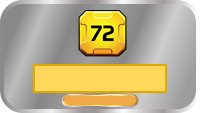
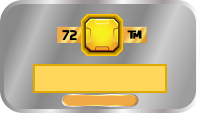
Add custom MAs for Arabia Terra board

Changed region(s): [[0.27, 0.0796, 0.75, 0.5044]]

diff --git a/src/MilestoneAwardSelector.ts b/src/MilestoneAwardSelector.ts
@@ -1,4 +1,9 @@
-import {ARES_AWARDS, Awards, ELYSIUM_AWARDS, HELLAS_AWARDS, MOON_AWARDS, ORIGINAL_AWARDS, VASTITAS_BOREALIS_AWARDS, VENUS_AWARDS} from './awards/Awards';
+import {Generator} from './awards/arabiaTerra/Generator';
+import {Highlander} from './awards/arabiaTerra/Highlander';
+import {Producer} from './awards/arabiaTerra/Producer';
+import {Purist} from './awards/arabiaTerra/Purist';
+import {Worker} from './awards/arabiaTerra/Worker';
+import {ARABIA_TERRA_AWARDS, ARES_AWARDS, Awards, ELYSIUM_AWARDS, HELLAS_AWARDS, MOON_AWARDS, ORIGINAL_AWARDS, VASTITAS_BOREALIS_AWARDS, VENUS_AWARDS} from './awards/Awards';
 import {Banker} from './awards/Banker';
 import {Benefactor} from './awards/Benefactor';
 import {Celebrity} from './awards/Celebrity';
@@ -23,6 +28,11 @@ import {Venuphile} from './awards/Venuphile';
 import {BoardName} from './boards/BoardName';
 import {GameOptions} from './Game';
 import {IDrawnMilestonesAndAwards} from './IDrawnMilestonesAndAwards';
+import {Frontrunner} from './milestones/arabiaTerra/Frontrunner';
+import {Herbalist} from './milestones/arabiaTerra/Herbalist';
+import {Morningstar} from './milestones/arabiaTerra/Morningstar';
+import {Protagonist} from './milestones/arabiaTerra/Protagonist';
+import {Researcher} from './milestones/arabiaTerra/Researcher';
 import {Builder} from './milestones/Builder';
 import {Diversifier} from './milestones/Diversifier';
 import {Ecologist} from './milestones/Ecologist';
@@ -32,7 +42,7 @@ import {Generalist} from './milestones/Generalist';
 import {Hoverlord} from './milestones/Hoverlord';
 import {IMilestone} from './milestones/IMilestone';
 import {Mayor} from './milestones/Mayor';
-import {ARES_MILESTONES, ELYSIUM_MILESTONES, HELLAS_MILESTONES, Milestones, MOON_MILESTONES, ORIGINAL_MILESTONES, VASTITAS_BOREALIS_MILESTONES, VENUS_MILESTONES} from './milestones/Milestones';
+import {ARABIA_TERRA_MILESTONES, ARES_MILESTONES, ELYSIUM_MILESTONES, HELLAS_MILESTONES, Milestones, MOON_MILESTONES, ORIGINAL_MILESTONES, VASTITAS_BOREALIS_MILESTONES, VENUS_MILESTONES} from './milestones/Milestones';
 import {Networker} from './milestones/Networker';
 import {Planner} from './milestones/Planner';
 import {PolarExplorer} from './milestones/PolarExplorer';
@@ -228,6 +238,46 @@ export namespace MilestoneAwardSelector {
       bind(Naturalist, Cultivator, 3);
       bind(Naturalist, Edgedancer, 1);
 
+      bind(Morningstar, Tycoon, 1);
+      bind(Morningstar, Hoverlord, 4);
+      bind(Morningstar, Venuphile, 9);
+      bind(Morningstar, Researcher, 1);
+
+      bind(Highlander, Mayor, 3);
+      bind(Highlander, Gardener, 3);
+      bind(Highlander, Landlord, 8);
+      bind(Highlander, DesertSettler, 6);
+      bind(Highlander, Cultivator, 8);
+
+      bind(Herbalist, Gardener, 8);
+      bind(Herbalist, PolarExplorer, 4);
+      bind(Herbalist, Irrigator, 3);
+
+      bind(Frontrunner, Ecologist, 1);
+      bind(Frontrunner, Tycoon, 1);
+      bind(Frontrunner, Diversifier, 1);
+      bind(Frontrunner, Tactician, 1);
+
+      bind(Generator, Specialist, 1);
+      bind(Generator, Energizer, 6);
+      bind(Generator, Thermalist, 6);
+      bind(Generator, Industrialist, 7);
+      bind(Generator, Contractor, 4);
+
+      bind(Protagonist, Terraformer, 8);
+      bind(Protagonist, Gardener, 2);
+
+      bind(Researcher, Scientist, 9);
+
+      bind(Producer, Generalist, 3);
+      bind(Producer, Smith, 2);
+
+      bind(Purist, Benefactor, 2);
+
+      bind(Worker, Tycoon, 6);
+      bind(Worker, Excentric, 5);
+      bind(Worker, Hoverlord, 2);
+
       return synergies;
     }
   }
@@ -294,7 +344,6 @@ export namespace MilestoneAwardSelector {
       switch (gameOptions.boardName) {
       case BoardName.ORIGINAL:
       case BoardName.AMAZONIS:
-      case BoardName.ARABIA_TERRA:
       case BoardName.TERRA_CIMMERIA:
         drawnMilestonesAndAwards.milestones.push(...ORIGINAL_MILESTONES);
         drawnMilestonesAndAwards.awards.push(...ORIGINAL_AWARDS);
@@ -302,6 +351,10 @@ export namespace MilestoneAwardSelector {
       case BoardName.VASTITAS_BOREALIS:
         drawnMilestonesAndAwards.milestones.push(...VASTITAS_BOREALIS_MILESTONES);
         drawnMilestonesAndAwards.awards.push(...VASTITAS_BOREALIS_AWARDS);
+        break;
+      case BoardName.ARABIA_TERRA:
+        drawnMilestonesAndAwards.milestones.push(...ARABIA_TERRA_MILESTONES);
+        drawnMilestonesAndAwards.awards.push(...ARABIA_TERRA_AWARDS);
         break;
       case BoardName.HELLAS:
         drawnMilestonesAndAwards.milestones.push(...HELLAS_MILESTONES);
@@ -363,8 +416,8 @@ export namespace MilestoneAwardSelector {
     const toName = (e: {name: string}) => e.name;
 
     // TODO: Add a game option to decide whether to include unofficial MAs or not
-    const candidateMilestones = [...ORIGINAL_MILESTONES, ...ELYSIUM_MILESTONES, ...HELLAS_MILESTONES, ...VASTITAS_BOREALIS_MILESTONES].map(toName);
-    const candidateAwards = [...ORIGINAL_AWARDS, ...ELYSIUM_AWARDS, ...HELLAS_AWARDS, ...VASTITAS_BOREALIS_AWARDS].map(toName);
+    const candidateMilestones = [...ORIGINAL_MILESTONES, ...ELYSIUM_MILESTONES, ...HELLAS_MILESTONES, ...VASTITAS_BOREALIS_MILESTONES, ...ARABIA_TERRA_MILESTONES].map(toName);
+    const candidateAwards = [...ORIGINAL_AWARDS, ...ELYSIUM_AWARDS, ...HELLAS_AWARDS, ...VASTITAS_BOREALIS_AWARDS, ...ARABIA_TERRA_AWARDS].map(toName);
 
     if (gameOptions.venusNextExtension) {
       candidateMilestones.push(...VENUS_MILESTONES.map(toName));

diff --git a/src/milestones/Milestones.ts b/src/milestones/Milestones.ts
@@ -23,6 +23,11 @@ import {Smith} from './vastitasBorealis/Smith';
 import {Irrigator} from './vastitasBorealis/Irrigator';
 import {Capitalist} from './vastitasBorealis/Capitalist';
 import {Tradesman} from './vastitasBorealis/Tradesman';
+import {Frontrunner} from './arabiaTerra/Frontrunner';
+import {Herbalist} from './arabiaTerra/Herbalist';
+import {Morningstar} from './arabiaTerra/Morningstar';
+import {Protagonist} from './arabiaTerra/Protagonist';
+import {Researcher} from './arabiaTerra/Researcher';
 
 export const ORIGINAL_MILESTONES: Array<IMilestone> = [
   new Terraformer(),
@@ -53,12 +58,20 @@ export const HELLAS_MILESTONES: Array<IMilestone> = [
 ];
 
 export const VASTITAS_BOREALIS_MILESTONES: Array<IMilestone> = [
-    new Electrician(),
-    new Smith(),
-    new Tradesman(),
-    new Irrigator(),
-    new Capitalist(),
-  ];
+  new Electrician(),
+  new Smith(),
+  new Tradesman(),
+  new Irrigator(),
+  new Capitalist(),
+];
+
+export const ARABIA_TERRA_MILESTONES: Array<IMilestone> = [
+  new Frontrunner(),
+  new Herbalist(),
+  new Morningstar(),
+  new Protagonist(),
+  new Researcher(),
+];
 
 export const ARES_MILESTONES: Array<IMilestone> = [
   new Networker(),
@@ -74,9 +87,11 @@ export const ALL_MILESTONES: Array<IMilestone> = [
   ...ELYSIUM_MILESTONES,
   ...HELLAS_MILESTONES,
   ...VASTITAS_BOREALIS_MILESTONES,
+  ...ARABIA_TERRA_MILESTONES,
   ...VENUS_MILESTONES,
   ...ARES_MILESTONES,
-  ...MOON_MILESTONES];
+  ...MOON_MILESTONES,
+];
 
 export namespace Milestones {
   export const ALL = ALL_MILESTONES;

diff --git a/src/styles/player_home.less b/src/styles/player_home.less
@@ -694,6 +694,51 @@
             background-image: url(assets/ma/voyager.png);
         }
 
+        .ma-name--frontrunner {
+            background-image: url(assets/ma/frontrunner.png);
+            padding-top: 61px;
+        }
+
+        .ma-name--herbalist {
+            background-image: url(assets/ma/herbalist.png);
+            padding-top: 61px;
+        }
+
+        .ma-name--morningstar {
+            background-image: url(assets/ma/morningstar.png);
+            padding-top: 61px;
+        }
+
+        .ma-name--protagonist {
+            background-image: url(assets/ma/protagonist.png);
+            padding-top: 61px;
+        }
+
+        .ma-name--researcher {
+            background-image: url(assets/ma/researcher.png);
+            padding-top: 61px;
+        }
+
+        .ma-name--generator {
+            background-image: url(assets/ma/generator.png);
+        }
+
+        .ma-name--highlander {
+            background-image: url(assets/ma/highlander.png);
+        }
+
+        .ma-name--producer {
+            background-image: url(assets/ma/producer.png);
+        }
+
+        .ma-name--purist {
+            background-image: url(assets/ma/purist.png);
+        }
+
+        .ma-name--worker {
+            background-image: url(assets/ma/worker.png);
+        }
+
         .ma-description {
             display: inline-block;
             width: 140px;

diff --git a/src/awards/Awards.ts b/src/awards/Awards.ts
@@ -23,6 +23,11 @@ import {Edgedancer} from './vastitasBorealis/Edgedancer';
 import {Hoarder} from './vastitasBorealis/Hoarder';
 import {Naturalist} from './vastitasBorealis/Naturalist';
 import {Voyager} from './vastitasBorealis/Voyager';
+import {Generator} from './arabiaTerra/Generator';
+import {Highlander} from './arabiaTerra/Highlander';
+import {Producer} from './arabiaTerra/Producer';
+import {Purist} from './arabiaTerra/Purist';
+import {Worker} from './arabiaTerra/Worker';
 
 export const ORIGINAL_AWARDS: Array<IAward> = [
   new Landlord(),
@@ -53,12 +58,20 @@ export const HELLAS_AWARDS: Array<IAward> = [
 ];
 
 export const VASTITAS_BOREALIS_AWARDS: Array<IAward> = [
-    new Adapter(),
-    new Edgedancer(),
-    new Hoarder(),
-    new Naturalist(),
-    new Voyager(),
-  ];
+  new Adapter(),
+  new Edgedancer(),
+  new Hoarder(),
+  new Naturalist(),
+  new Voyager(),
+];
+
+export const ARABIA_TERRA_AWARDS: Array<IAward> = [
+  new Generator(),
+  new Highlander(),
+  new Producer(),
+  new Purist(),
+  new Worker(),
+];
 
 export const ARES_AWARDS: Array<IAward> = [
   new Entrepreneur(),
@@ -77,6 +90,7 @@ export const ALL_AWARDS: Array<IAward> = [
   ...ARES_AWARDS,
   ...MOON_AWARDS,
   ...VASTITAS_BOREALIS_AWARDS,
+  ...ARABIA_TERRA_AWARDS,
 ];
 
 export namespace Awards {

diff --git a/src/awards/arabiaTerra/Highlander.ts b/src/awards/arabiaTerra/Highlander.ts
@@ -1,0 +1,20 @@
+import {Board} from "../../boards/Board";
+import {Player} from "../../Player";
+import {SpaceType} from "../../SpaceType";
+import {isAresTile} from "../../TileType";
+import {IAward} from "../IAward";
+
+export class Highlander implements IAward {
+  public name: string = 'Highlander';
+  public description: string = 'Most tiles on Mars not adjacent to oceans'
+  
+  public getScore(player: Player): number {
+    return player.game.board.spaces.filter((space) =>
+      space.player === player &&
+      space.tile !== undefined &&
+      isAresTile(space.tile.tileType) === false &&
+      space.spaceType !== SpaceType.COLONY &&
+      player.game.board.getAdjacentSpaces(space).every((space) => !Board.isOceanSpace(space)),
+    ).length;
+  }
+}

diff --git a/src/awards/arabiaTerra/Purist.ts b/src/awards/arabiaTerra/Purist.ts
@@ -1,0 +1,14 @@
+import {CardType} from "../../cards/CardType";
+import {BASE_CARD_MANIFEST} from "../../cards/StandardCardManifests";
+import {Player} from "../../Player";
+import {IAward} from "../IAward";
+
+export class Purist implements IAward {
+  public name: string = 'Purist';
+  public description: string = 'Most cards in play from the base game (excluding Corporate Era)'
+  
+  public getScore(player: Player): number {
+    const validCardTypes = [CardType.ACTIVE, CardType.AUTOMATED];
+    return player.playedCards.filter((card) => (BASE_CARD_MANIFEST.projectCards.factories.has(card.name)) && validCardTypes.includes(card.cardType)).length;
+  }
+}

diff --git a/src/milestones/arabiaTerra/Protagonist.ts b/src/milestones/arabiaTerra/Protagonist.ts
@@ -1,0 +1,17 @@
+import {Player} from "../../Player";
+import {IMilestone} from "../IMilestone";
+
+export class Protagonist implements IMilestone {
+  public name: string = 'Protagonist';
+  public description: string = 'Have 5 TR more than other players'
+
+  public getScore(player: Player): number {
+    const ownTr = player.getTerraformRating();
+    const highestOtherTR = Math.max(...player.game.getPlayers().filter((p) => p.id !== player.id).map((player) => player.getTerraformRating()));
+    return ownTr - highestOtherTR;
+  }
+
+  public canClaim(player: Player): boolean {
+    return this.getScore(player) >= 5;
+  }
+}

diff --git a/src/milestones/arabiaTerra/Frontrunner.ts b/src/milestones/arabiaTerra/Frontrunner.ts
@@ -1,0 +1,22 @@
+import {Player} from "../../Player";
+import {IMilestone} from "../IMilestone";
+
+export class Frontrunner implements IMilestone {
+  public name: string = 'Frontrunner';
+  public description: string = 'Have a net total of 6 VP on played cards'
+
+  public getScore(player: Player): number {
+    let score = 0;
+    for (const playedCard of player.playedCards) {
+      if (playedCard.getVictoryPoints !== undefined) {
+        score += playedCard.getVictoryPoints(player);
+      }
+    }
+
+    return score;
+  }
+
+  public canClaim(player: Player): boolean {
+    return this.getScore(player) >= 6;
+  }
+}

diff --git a/src/awards/arabiaTerra/Producer.ts b/src/awards/arabiaTerra/Producer.ts
@@ -1,0 +1,14 @@
+import {Player} from "../../Player";
+import {Resources} from "../../Resources";
+import {IAward} from "../IAward";
+
+export class Producer implements IAward {
+  public name: string = 'Producer';
+  public description: string = 'Most sets of all 6 productions'
+  
+  public getScore(player: Player): number {
+    return Math.min(player.getProduction(Resources.MEGACREDITS), player.getProduction(Resources.STEEL),
+      player.getProduction(Resources.TITANIUM), player.getProduction(Resources.PLANTS),
+      player.getProduction(Resources.ENERGY), player.getProduction(Resources.HEAT));
+  }
+}

diff --git a/src/milestones/arabiaTerra/Morningstar.ts b/src/milestones/arabiaTerra/Morningstar.ts
@@ -2,12 +2,12 @@ import {Tags} from "../../cards/Tags";
 import {Player} from "../../Player";
 import {IMilestone} from "../IMilestone";
 
-export class Electrician implements IMilestone {
-  public name: string = 'Electrician';
-  public description: string = 'Have 4 Power tags'
+export class Morningstar implements IMilestone {
+  public name: string = 'Morningstar';
+  public description: string = 'Have 4 Venus tags'
 
   public getScore(player: Player): number {
-    return player.getTagCount(Tags.ENERGY);
+    return player.getTagCount(Tags.VENUS);
   }
 
   public canClaim(player: Player): boolean {

diff --git a/src/milestones/arabiaTerra/Researcher.ts b/src/milestones/arabiaTerra/Researcher.ts
@@ -1,0 +1,16 @@
+import {Tags} from "../../cards/Tags";
+import {Player} from "../../Player";
+import {IMilestone} from "../IMilestone";
+
+export class Researcher implements IMilestone {
+  public name: string = 'Researcher';
+  public description: string = 'Have 6 Science tags'
+
+  public getScore(player: Player): number {
+    return player.getTagCount(Tags.SCIENCE);
+  }
+
+  public canClaim(player: Player): boolean {
+    return this.getScore(player) >= 6;
+  }
+}

diff --git a/src/milestones/vastitasBorealis/Tradesman.ts b/src/milestones/vastitasBorealis/Tradesman.ts
@@ -3,7 +3,7 @@ import {IMilestone} from "../IMilestone";
 
 export class Tradesman implements IMilestone {
   public name: string = 'Tradesman';
-  public description: string = 'Have at least 3 different types of non-standard resources'
+  public description: string = 'Have 3 different types of non-standard resources'
 
   public getScore(player: Player): number {
     const nonStandardResources = new Set(player.getCardsWithResources().map((card) => card.resourceType));
